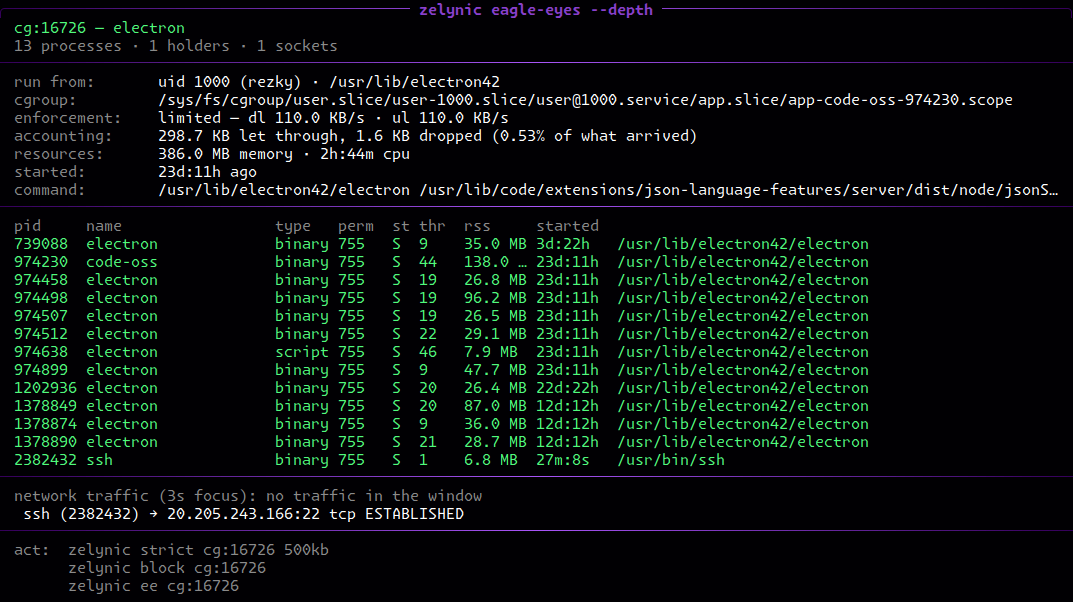
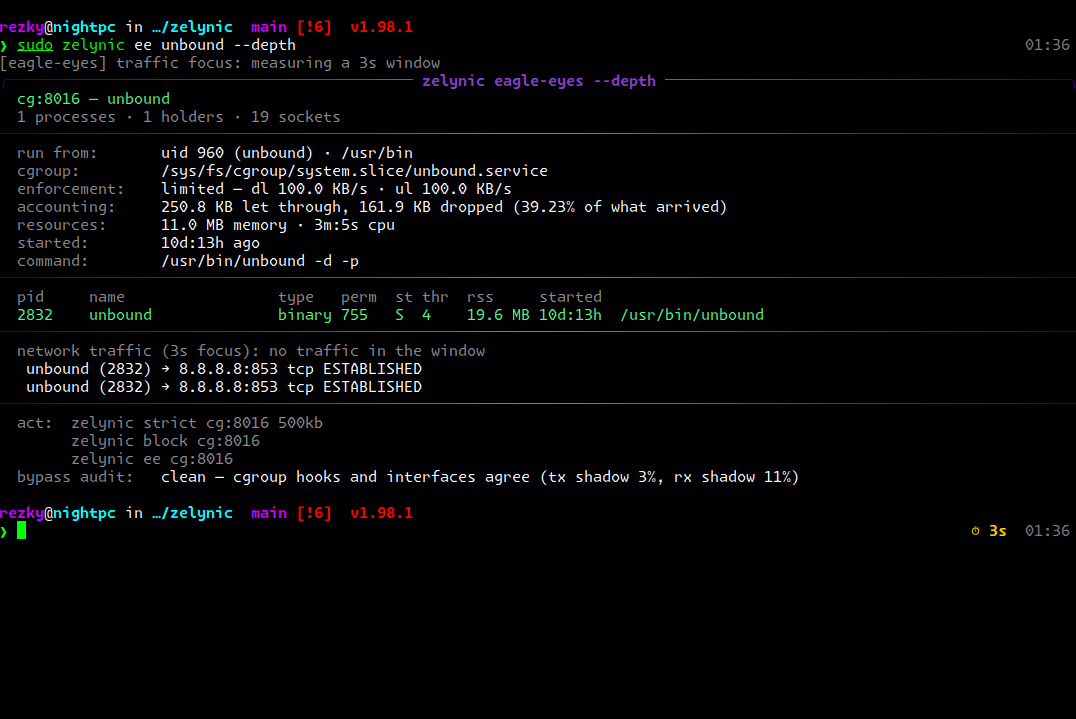
release: v80.0.1 take an experience, for long time.

diff --git a/CHANGELOG.md b/CHANGELOG.md
@@ -25,6 +25,7 @@ NIGHT-hunt-18's git-history-only call.
 
 ## [Released]
 
+v80.0.1
 v80.0.1-night.2
 v80.0.1-night.1
 v80.0.0
